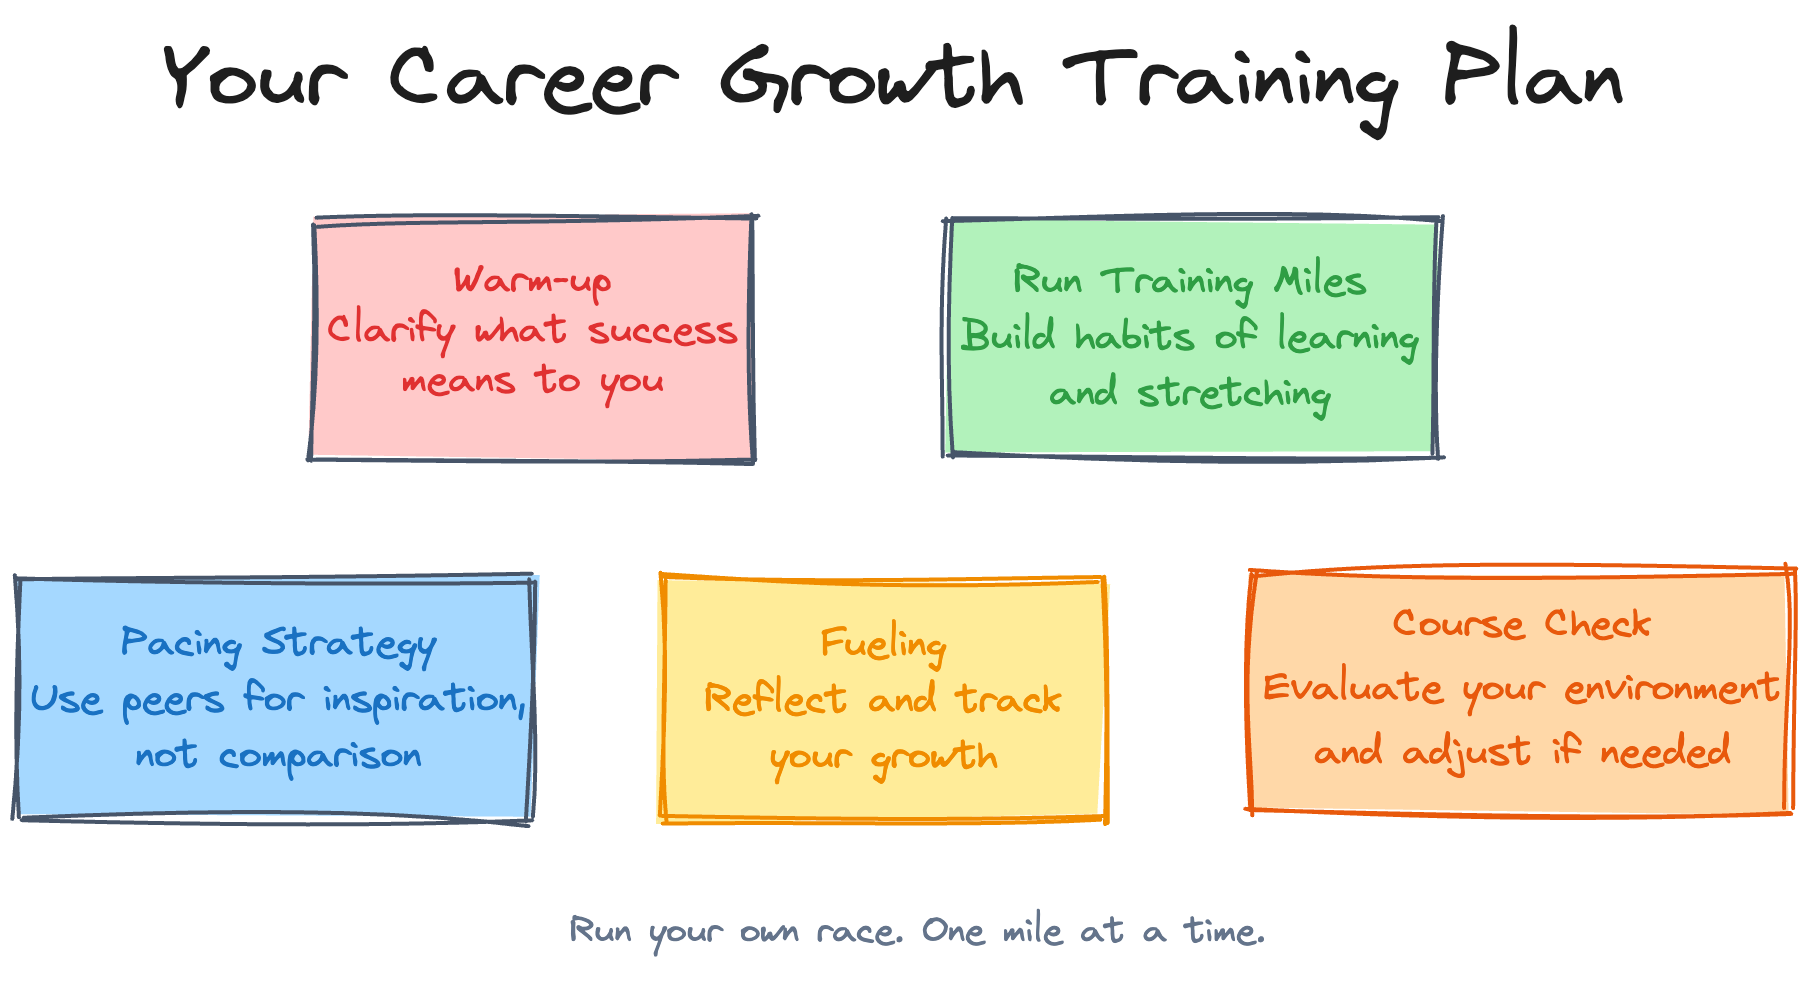
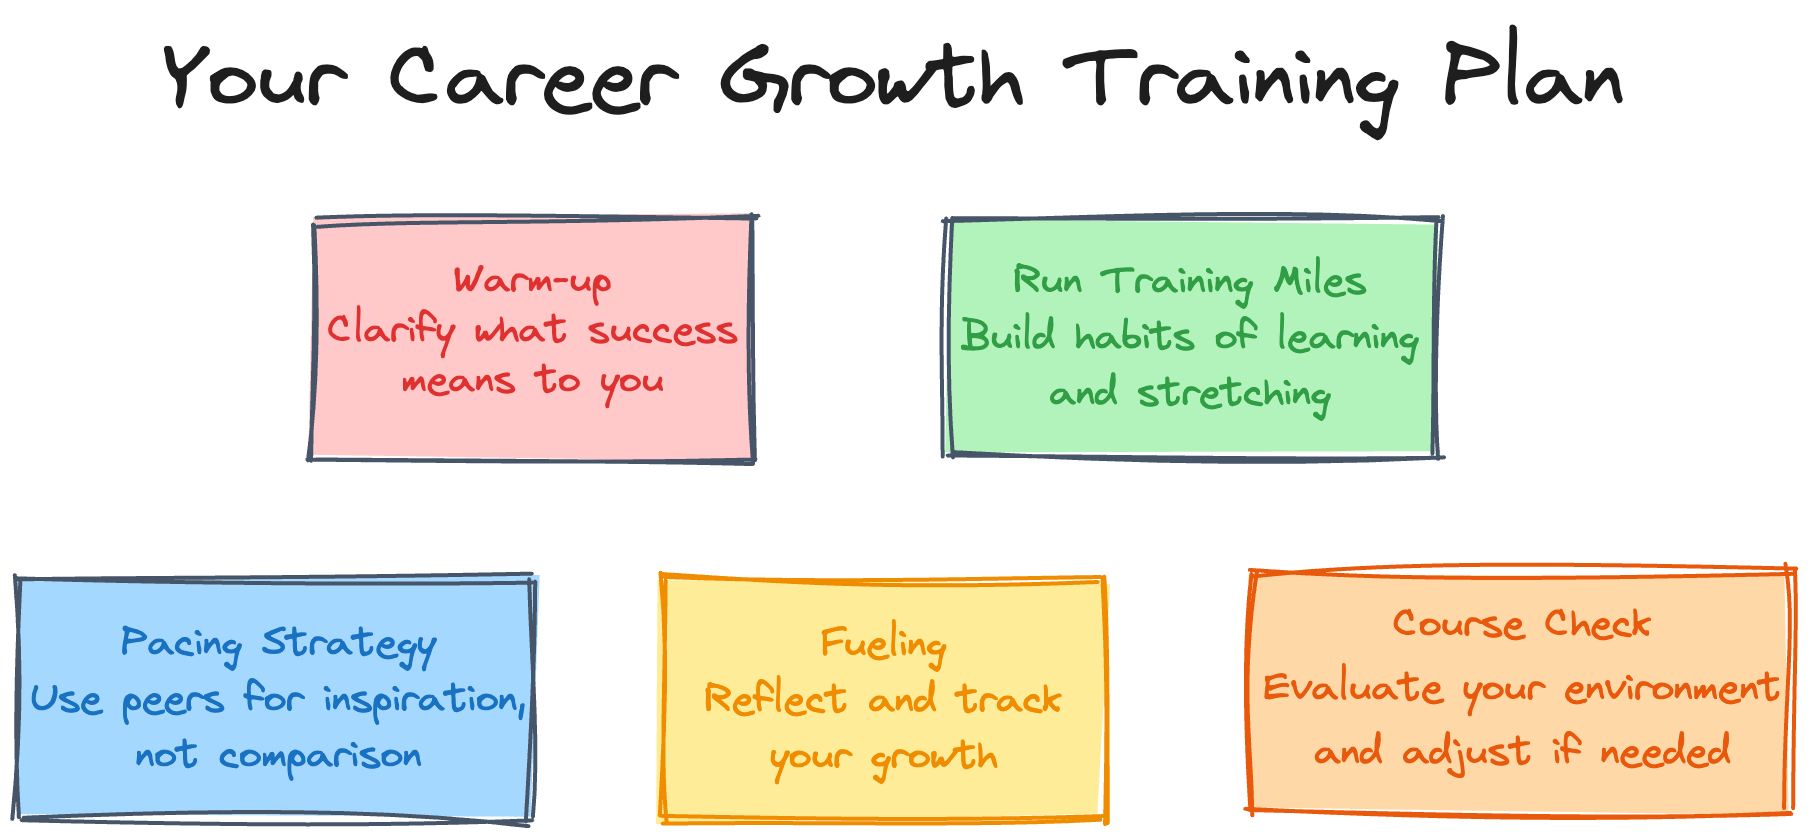
updates footer on image, moves to image caption

diff --git a/_posts/2025-08-28-career-is-an-individual-sport.md b/_posts/2025-08-28-career-is-an-individual-sport.md
@@ -82,7 +82,7 @@ Here’s a quick self-check:
 * Am I learning from others, or competing with them?
 * Is my environment helping or hindering my progress?
 
-![Run Your Own Race – Career Reminders](/assets/article_images/2025-08-28-career-is-an-individual-sport/reminder.png)
+![Run Your Own Race. One mile at a time.](/assets/article_images/2025-08-28-career-is-an-individual-sport/reminder.png)
 
 ### Enjoy the Run
 
